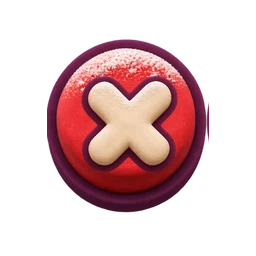
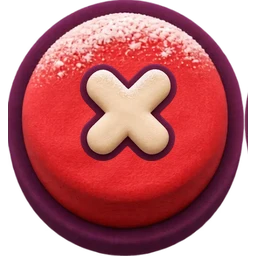
Yuvarlak düğmelerde simgeler üst yüzün ortasında; bölüm yazısı geri düğmesiyle hizalı
Claude-Session: https://claude.ai/code/session_013YjY38wA9HkTsRWqx1GxrD

diff --git a/www/sw.js b/www/sw.js
@@ -1,6 +1,6 @@
 // Çevrimdışı: önbellekten anında aç, arkada güncelle (stale-while-revalidate).
 // Yeni dosya eklenince F listesine girer (robot www/ ile listeyi karşılaştırır: tools/hakem.cjs "sw.liste").
-const C = 'hamur-v81', F = ['./', 'index.html', 'style.css', 'i18n.js', 'ses.js', 'olcum.js', 'ads.js', 'shop.js', 'app.js', 'game.js', 'ekran.js', 'acilis.js', 'bolumler.js', 'rules/cekirdek.js', 'rules/cozucu.js', 'font/baloo-latin-ext.woff2', 'font/baloo-latin.woff2', 'font/titan-latin-ext.woff2', 'font/titan-latin.woff2', 'img/ac-kirmizi.webp', 'img/ac-mavi.webp', 'img/ac-mor.webp', 'img/ac-sari.webp', 'img/ac-turuncu.webp', 'img/ac-un-atan.webp', 'img/ac-un-yiyen.webp', 'img/ac-yesil.webp', 'img/acilis-grup.webp', 'img/acilis.webp', 'img/ada-sag.webp', 'img/ada-sol.webp', 'img/ada.webp', 'img/akrep.webp', 'img/ayarlar.webp', 'img/bastan.webp', 'img/blok-b.webp', 'img/blok-g.webp', 'img/blok-krem.webp', 'img/blok-o.webp', 'img/blok-p.webp', 'img/blok-r.webp', 'img/blok-y.webp', 'img/blok.webp', 'img/bulut-1.webp', 'img/bulut-2.webp', 'img/bulut-3.webp', 'img/bulut-4.webp', 'img/bulut-5.webp', 'img/bulut-6.webp', 'img/bulut-seti.webp', 'img/canta.webp', 'img/damgalar.webp', 'img/doku.webp', 'img/duraklat.webp', 'img/duvar.webp', 'img/el.webp', 'img/figur-1.webp', 'img/figur-10.webp', 'img/figur-11.webp', 'img/figur-12.webp', 'img/figur-2.webp', 'img/figur-3.webp', 'img/figur-4.webp', 'img/figur-5.webp', 'img/figur-6.webp', 'img/figur-7.webp', 'img/figur-8.webp', 'img/figur-9.webp', 'img/geri.webp', 'img/girdap.webp', 'img/gok-2.webp', 'img/gok-derin.webp', 'img/gok.webp', 'img/gok2.webp', 'img/guc.webp', 'img/gunluk.webp', 'img/hamur-dilim.webp', 'img/hamur-serit.webp', 'img/hap-kirmizi.webp', 'img/hap-mavi.webp', 'img/hap-mor.webp', 'img/hap-sari.webp', 'img/hap-turuncu.webp', 'img/hap-yesil.webp', 'img/hucre-2.webp', 'img/hucre.webp', 'img/ikon-192.png', 'img/ikon-512.png', 'img/kadran.webp', 'img/kahraman.webp', 'img/kalp-eriyor.webp', 'img/kalp.webp', 'img/kapat.webp', 'img/kar-1.webp', 'img/kar-2.webp', 'img/kar-3-kare.webp', 'img/kar-3.webp', 'img/kar-4-kare.webp', 'img/kar-4.webp', 'img/kar-5.webp', 'img/kar-6.webp', 'img/kat-orta.webp', 'img/kat-uzak.webp', 'img/kat-yakin.webp', 'img/kayip-sure.webp', 'img/kayip-yapisma.webp', 'img/kazanc.webp', 'img/kilit.webp', 'img/klaket.webp', 'img/kurabiye-bos.webp', 'img/kurabiye-kilitli.webp', 'img/kurabiye-siradaki.webp', 'img/kurabiye-tamam.webp', 'img/logo.webp', 'img/m-alev.webp', 'img/m-canta.webp', 'img/m-hediye.webp', 'img/m-kalpler.webp', 'img/m-reklamsiz.webp', 'img/m-sandik.webp', 'img/makas-kapali.webp', 'img/makas.webp', 'img/n-ay.webp', 'img/n-cirpici-1.webp', 'img/n-cirpici-2.webp', 'img/n-donut.webp', 'img/n-ev.webp', 'img/n-merdiven.webp', 'img/n-oklava.webp', 'img/n-seker.webp', 'img/oynat.webp', 'img/panel.webp', 'img/parcacik.webp', 'img/pencere.webp', 'img/rozet.webp', 'img/saat.webp', 'img/serit.webp', 'img/ses.webp', 'img/sessiz.webp', 'img/sus-1.webp', 'img/sus-10.webp', 'img/sus-2.webp', 'img/sus-3.webp', 'img/sus-4.webp', 'img/sus-5.webp', 'img/sus-6.webp', 'img/sus-7.webp', 'img/sus-8.webp', 'img/sus-9.webp', 'img/tarif.webp', 'img/tepsi-2.webp', 'img/tepsi.webp', 'img/top-kirmizi.webp', 'img/top-mavi.webp', 'img/top-mor.webp', 'img/top-sari.webp', 'img/top-yesil.webp', 'img/yildiz-bos.webp', 'img/yildiz-yuz.webp', 'img/yildiz.webp', 'img/yol.webp', 'img/yuz-dikey.webp', 'img/yuzler.webp', ...['de', 'es', 'pt-BR', 'fr'].map(l => `lang/${l}.js`), 'ses/kayip.mp3', 'ses/kazan.mp3', 'ses/kes.mp3', 'ses/muzik.mp3', 'ses/otur.mp3', 'ses/yapis.mp3', 'manifest.json'];
+const C = 'hamur-v82', F = ['./', 'index.html', 'style.css', 'i18n.js', 'ses.js', 'olcum.js', 'ads.js', 'shop.js', 'app.js', 'game.js', 'ekran.js', 'acilis.js', 'bolumler.js', 'rules/cekirdek.js', 'rules/cozucu.js', 'font/baloo-latin-ext.woff2', 'font/baloo-latin.woff2', 'font/titan-latin-ext.woff2', 'font/titan-latin.woff2', 'img/ac-kirmizi.webp', 'img/ac-mavi.webp', 'img/ac-mor.webp', 'img/ac-sari.webp', 'img/ac-turuncu.webp', 'img/ac-un-atan.webp', 'img/ac-un-yiyen.webp', 'img/ac-yesil.webp', 'img/acilis-grup.webp', 'img/acilis.webp', 'img/ada-sag.webp', 'img/ada-sol.webp', 'img/ada.webp', 'img/akrep.webp', 'img/ayarlar.webp', 'img/bastan.webp', 'img/blok-b.webp', 'img/blok-g.webp', 'img/blok-krem.webp', 'img/blok-o.webp', 'img/blok-p.webp', 'img/blok-r.webp', 'img/blok-y.webp', 'img/blok.webp', 'img/bulut-1.webp', 'img/bulut-2.webp', 'img/bulut-3.webp', 'img/bulut-4.webp', 'img/bulut-5.webp', 'img/bulut-6.webp', 'img/bulut-seti.webp', 'img/canta.webp', 'img/damgalar.webp', 'img/doku.webp', 'img/dugme-ayar.webp', 'img/dugme-canta.webp', 'img/dugme-geri.webp', 'img/duraklat.webp', 'img/duvar.webp', 'img/el.webp', 'img/figur-1.webp', 'img/figur-10.webp', 'img/figur-11.webp', 'img/figur-12.webp', 'img/figur-2.webp', 'img/figur-3.webp', 'img/figur-4.webp', 'img/figur-5.webp', 'img/figur-6.webp', 'img/figur-7.webp', 'img/figur-8.webp', 'img/figur-9.webp', 'img/geri.webp', 'img/girdap.webp', 'img/gok-2.webp', 'img/gok-derin.webp', 'img/gok.webp', 'img/gok2.webp', 'img/guc.webp', 'img/gunluk.webp', 'img/hamur-dilim.webp', 'img/hamur-serit.webp', 'img/hap-kirmizi.webp', 'img/hap-mavi.webp', 'img/hap-mor.webp', 'img/hap-sari.webp', 'img/hap-turuncu.webp', 'img/hap-yesil.webp', 'img/hucre-2.webp', 'img/hucre.webp', 'img/ikon-192.png', 'img/ikon-512.png', 'img/kadran.webp', 'img/kahraman.webp', 'img/kalp-eriyor.webp', 'img/kalp.webp', 'img/kapat.webp', 'img/kar-1.webp', 'img/kar-2.webp', 'img/kar-3-kare.webp', 'img/kar-3.webp', 'img/kar-4-kare.webp', 'img/kar-4.webp', 'img/kar-5.webp', 'img/kar-6.webp', 'img/kat-orta.webp', 'img/kat-uzak.webp', 'img/kat-yakin.webp', 'img/kayip-sure.webp', 'img/kayip-yapisma.webp', 'img/kazanc.webp', 'img/kilit.webp', 'img/klaket.webp', 'img/kurabiye-bos.webp', 'img/kurabiye-kilitli.webp', 'img/kurabiye-siradaki.webp', 'img/kurabiye-tamam.webp', 'img/logo.webp', 'img/m-alev.webp', 'img/m-canta.webp', 'img/m-hediye.webp', 'img/m-kalpler.webp', 'img/m-reklamsiz.webp', 'img/m-sandik.webp', 'img/makas-kapali.webp', 'img/makas.webp', 'img/n-ay.webp', 'img/n-cirpici-1.webp', 'img/n-cirpici-2.webp', 'img/n-donut.webp', 'img/n-ev.webp', 'img/n-merdiven.webp', 'img/n-oklava.webp', 'img/n-seker.webp', 'img/oynat.webp', 'img/panel.webp', 'img/parcacik.webp', 'img/pencere.webp', 'img/rozet.webp', 'img/saat.webp', 'img/serit.webp', 'img/ses.webp', 'img/sessiz.webp', 'img/sus-1.webp', 'img/sus-10.webp', 'img/sus-2.webp', 'img/sus-3.webp', 'img/sus-4.webp', 'img/sus-5.webp', 'img/sus-6.webp', 'img/sus-7.webp', 'img/sus-8.webp', 'img/sus-9.webp', 'img/tarif.webp', 'img/tepsi-2.webp', 'img/tepsi.webp', 'img/top-kirmizi.webp', 'img/top-mavi.webp', 'img/top-mor.webp', 'img/top-sari.webp', 'img/top-yesil.webp', 'img/yildiz-bos.webp', 'img/yildiz-yuz.webp', 'img/yildiz.webp', 'img/yol.webp', 'img/yuz-dikey.webp', 'img/yuzler.webp', ...['de', 'es', 'pt-BR', 'fr'].map(l => `lang/${l}.js`), 'ses/kayip.mp3', 'ses/kazan.mp3', 'ses/kes.mp3', 'ses/muzik.mp3', 'ses/otur.mp3', 'ses/yapis.mp3', 'manifest.json'];
 self.addEventListener('install', e => e.waitUntil(caches.open(C).then(c => c.addAll(F)).then(() => self.skipWaiting())));
 self.addEventListener('activate', e => e.waitUntil(caches.keys().then(k => Promise.all(k.filter(x => x !== C).map(x => caches.delete(x)))).then(() => self.clients.claim())));
 self.addEventListener('fetch', e => {

diff --git a/www/style.css b/www/style.css
@@ -901,3 +901,15 @@ body.ana-acik .gok .n-ay{display:none}
 .guc:not(.tarif):disabled i{opacity:.45}
 .guc b{min-width:26px;height:26px;line-height:24px;font-size:13px;color:#fff}
 .gucler{gap:8px;align-items:center}
+
+/* yuvarlak düğmeler: simge görselin içinde, üst yüzün tam ortasında */
+#yolGeri,#tepsiGeri,#magazaGeri,#bCik{background-image:url(img/dugme-geri.webp)}
+#bAyar{background-image:url(img/dugme-ayar.webp)}
+#bMagaza{background-image:url(img/dugme-canta.webp)}
+#yolGeri i,#tepsiGeri i,#magazaGeri i,#bCik i,#bAyar i,#bMagaza i{display:none}
+/* bölüm yazısı geri düğmesinin üst yüzüyle aynı hizada */
+#sOyun .nav{align-items:center;gap:8px}
+#lvlNo{position:relative;top:-8px;line-height:1;min-width:0;text-align:left}
+#lvlNo{top:-8px}
+#lvlNo{top:-9px}
+#lvlNo{top:-3px}
